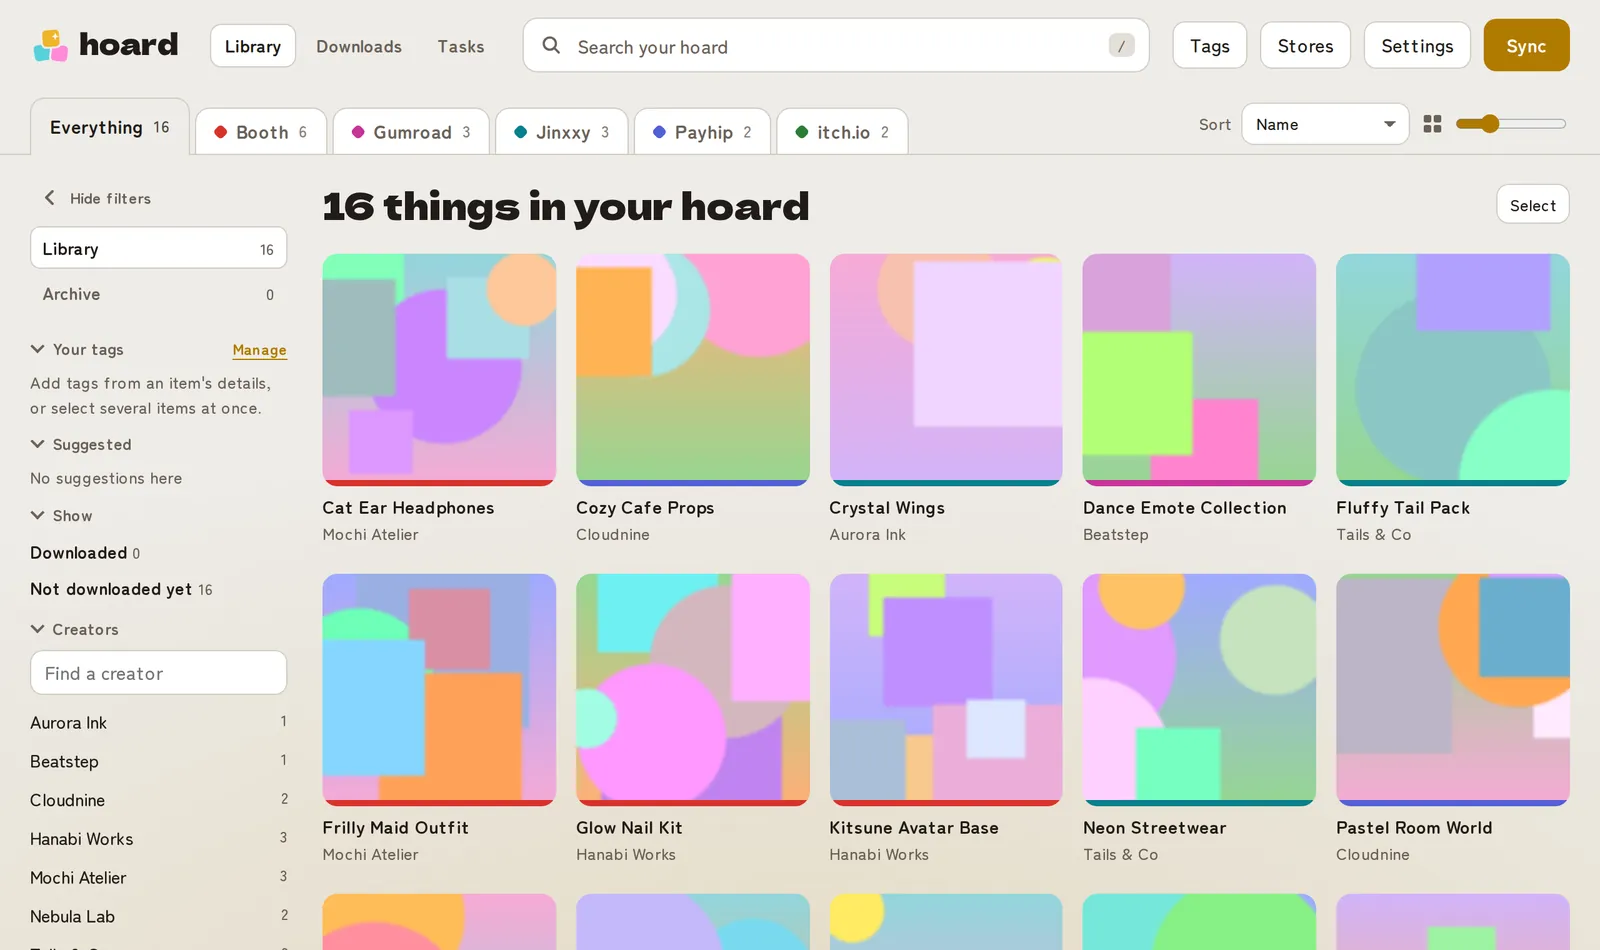
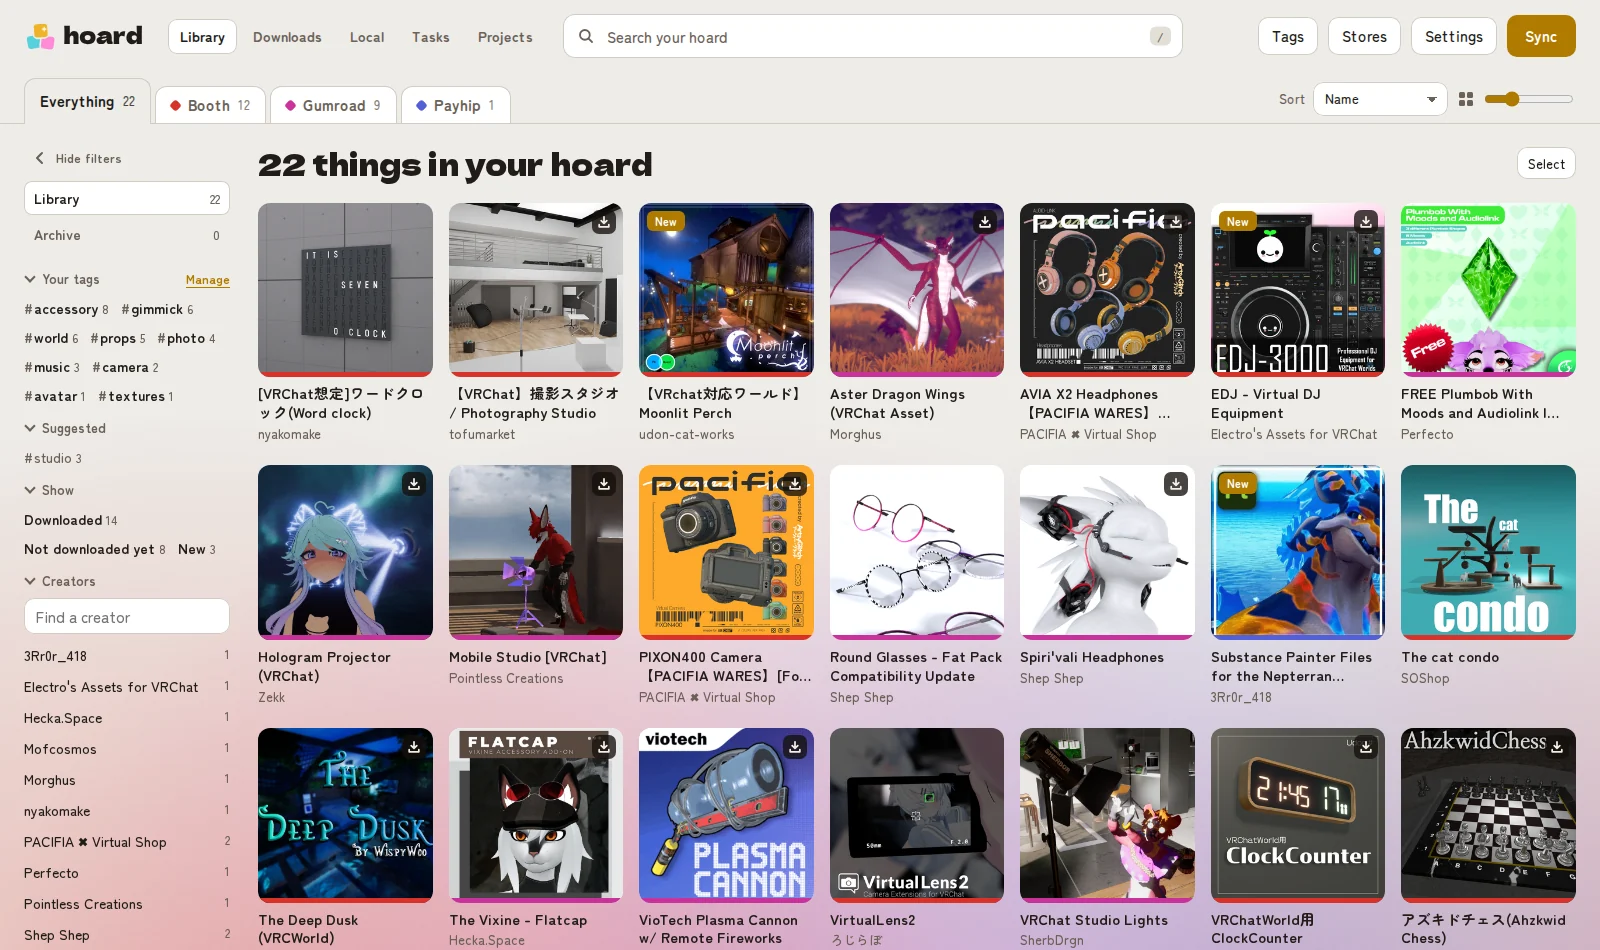
Screenshots of real products for the website and README
Five views (library, a download's details, Projects, adding your own
package, Stores) in dark and light, taken by scripts/screenshots.py from 22
products in the maintainer's own library, every picture (every frame of the
animated ones) checked safe for work. The website gets a 'A look around'
section and a new hero shot, the README a gallery, both crediting the
creators whose products are shown.

The screenshot script now gives the demo Local item files of its own (no
one else's picture), uses safe file names, and shows a usual computer's
paths and sign-in note. Downloads' tiles no longer cut into the heading:
the spacing rule missed the grid behind the hidden view bar.

Claude-Session: https://claude.ai/code/session_01A6S54cqYrVZay4VfWGRH2T

diff --git a/site/index.html b/site/index.html
@@ -46,7 +46,8 @@
         <img src="img/library-dark.webp" width="1600" height="950"
              alt="Hoard's library: products from five stores as picture tiles, with store tabs, search, tags and creators down the side.">
       </picture>
-      <p class="small caption">A library of sample products. Yours shows what you've bought.</p>
+      <p class="small caption">Real products from the maintainer's own library, shown with their creators' pictures.
+        Yours shows what you've bought.</p>
     </section>
 
     <section id="features" class="features" aria-labelledby="featuresTitle">
@@ -83,14 +84,49 @@
       </div>
     </section>
 
+    <section id="tour" class="tour" aria-labelledby="tourTitle">
+      <h2 id="tourTitle">A look around</h2>
+      <div class="gallery">
+        <figure>
+          <picture>
+            <source srcset="img/downloads-details-light.webp" media="(prefers-color-scheme: light)">
+            <img src="img/downloads-details-dark.webp" width="1600" height="950" loading="lazy" alt="Hoard's Downloads page, with a product's details open beside the tiles: its store, the Unity project that uses it, and buttons to open its folder or make an editable copy.">
+          </picture>
+          <figcaption><strong>Downloads.</strong> Every file you've downloaded, in tidy folders. Open one to see its files, which of your Unity projects use it, and make an editable copy.</figcaption>
+        </figure>
+        <figure>
+          <picture>
+            <source srcset="img/projects-light.webp" media="(prefers-color-scheme: light)">
+            <img src="img/projects-dark.webp" width="1600" height="950" loading="lazy" alt="Hoard's Projects panel: a Unity project's assets, each marked in the project or partly in it, and its credits list.">
+          </picture>
+          <figcaption><strong>Projects.</strong> Every Unity project you open Hoard's window in: the assets it uses, which have updates, and its credits list, ready to copy.</figcaption>
+        </figure>
+        <figure>
+          <picture>
+            <source srcset="img/local-add-light.webp" media="(prefers-color-scheme: light)">
+            <img src="img/local-add-dark.webp" width="1600" height="950" loading="lazy" alt="The Add to Local panel: a folder or file, its name, who made it and who it's for, and a choice to copy it into Hoard or list it where it is.">
+          </picture>
+          <figcaption><strong>Your own packages.</strong> Keep what you make beside what you buy. Copy it into Hoard, or list it where it already is.</figcaption>
+        </figure>
+        <figure>
+          <picture>
+            <source srcset="img/stores-light.webp" media="(prefers-color-scheme: light)">
+            <img src="img/stores-dark.webp" width="1600" height="950" loading="lazy" alt="Hoard's Stores panel: Booth, Gumroad, Jinxxy, Payhip and itch.io, each with sign in, refresh and download.">
+          </picture>
+          <figcaption><strong>Stores.</strong> Sign in to each store once, then refresh and download from one place.</figcaption>
+        </figure>
+      </div>
+      <p class="small">Products shown are by 3Rr0r_418, Electro's Assets for VRChat, Hecka.Space, Mofcosmos, Morghus, nyakomake, PACIFIA Virtual Shop, Perfecto, Pointless Creations, Shep Shep, SherbDrgn, SOShop, tofumarket, udon-cat-works, Violentpainter, wispywoo, Wmup, Zekk, ろじらぼ and 雪械重工, from the maintainer's own library. Thank you for making them.</p>
+    </section>
+
     <section id="unity" class="unity" aria-labelledby="unityTitle">
       <div>
         <h2 id="unityTitle">Hoard for Unity</h2>
         <p>Everything you've downloaded, inside the Unity editor: <strong>Window › Hoard</strong>. Search your
           library with pictures (animated ones play), see which assets are already in this project, and import one
           without downloading it again.</p>
-        <p><strong>Credits</strong> lists the creators of every asset your project uses, ready to paste into your
-          avatar's description.</p>
+        <p><strong>Create Credits List</strong> lists the creators of every asset fully in your project, ready to
+          paste into your avatar's description. Hoard's <strong>Projects</strong> shows each project's assets too.</p>
         <p class="small">Editor only: nothing from it goes into your uploads. Unity 2022.3, the version VRChat uses.</p>
       </div>
       <div class="vcc">

diff --git a/hoard/web/downloads.html b/hoard/web/downloads.html
@@ -178,7 +178,10 @@ main { padding: 22px 24px 64px 8px; min-width: 0; }
 .count .of { color: var(--dust); }
 .status { display: flex; align-items: center; gap: 8px; flex-wrap: wrap; margin: 12px 0 0; font-size: 14px; color: var(--dust); }
 .status:empty { display: none; }
-.status + .grid, .count + .status:empty + .grid { margin-top: 22px; }
+/* space between the heading (and any filters) and the tiles: the view bar (hidden in Downloads) sits between them,
+   so the grid is found as any later sibling of the heading row */
+.headrow ~ .grid { margin-top: 22px; }
+.viewbar:not([hidden]) + .grid { margin-top: 0; }
 .pill { display: inline-flex; align-items: center; gap: 6px; font-size: 13px; font-weight: 700; padding: 3px 5px 3px 11px; border-radius: 8px; background: var(--ledge); box-shadow: inset 0 0 0 1px var(--seam); border: 0; }
 .pill b { font-weight: 500; color: var(--dust); }
 .pill span[aria-hidden] { width: 18px; height: 18px; display: grid; place-items: center; border-radius: 5px; }

diff --git a/site/styles.css b/site/styles.css
@@ -87,6 +87,13 @@ section:first-child { border-top: 0; }
 .shot img { width: 100%; height: auto; border-radius: var(--radius); border: 1px solid var(--seam);
             box-shadow: 0 24px 60px rgb(0 0 0 / .35); }
 .caption { margin-top: 10px; }
+.gallery { display: grid; grid-template-columns: repeat(2, minmax(0, 1fr)); gap: 28px; margin: 24px 0; }
+.gallery figure { margin: 0; }
+.gallery img { width: 100%; height: auto; border-radius: var(--radius); border: 1px solid var(--seam);
+               box-shadow: 0 16px 40px rgb(0 0 0 / .3); }
+.gallery figcaption { margin-top: 10px; color: var(--dust); }
+.gallery figcaption strong { color: var(--bone); }
+@media (max-width: 760px) { .gallery { grid-template-columns: 1fr; } }
 
 .button {
   display: inline-flex; align-items: center; justify-content: center; gap: 8px; min-height: 46px;

diff --git a/scripts/screenshots.py b/scripts/screenshots.py
@@ -35,6 +35,7 @@ sys.path.insert(0, str(REPO))
 
 from hoard import config, downloader, jobs, library, projects, server  # noqa: E402
 from hoard.paths import THUMB_DIR  # noqa: E402
+from hoard.safety import safe_name  # noqa: E402
 from hoard.tags import TagStore, tag_key  # noqa: E402
 
 STORES = ("booth", "gumroad", "jinxxy", "payhip", "itch")
@@ -90,17 +91,18 @@ def build(items: list[dict]) -> tuple[Path, dict]:
         folder = store_dir / rec["folder"]
         folder.mkdir(parents=True, exist_ok=True)
         shutil.copy(p["picture"], folder / f"_thumbnail{p['picture'].suffix.lower()}")
-        for k, (fname, size) in enumerate(((f"{p['name']}.unitypackage", 48_000_000 + n * 3_100_000),
+        for k, (fname, size) in enumerate(((f"{safe_name(p['name'])}.unitypackage", 48_000_000 + n * 3_100_000),
                                            ("Textures.zip", 12_000_000 + n * 700_000))):
             with open(folder / fname, "wb") as fh:
                 fh.truncate(size)   # sparse: the size shows, nothing is written
             rec["files"][f"f{k}"] = {"path": fname, "size": size}
         man.save()
     cfg = {**config.load_config(), "root": str(root), "setup_done": True}
-    for p in items[:2]:   # your own: a texture set, copied into Local
-        own = WORK / "My Texture Set"
-        own.mkdir(exist_ok=True)
-        shutil.copy(p["picture"], own / f"preview-{p['id']}{p['picture'].suffix.lower()}")
+    own = WORK / "My Texture Set"   # your own: a texture set, copied into Local (no one else's picture)
+    (own / "Textures").mkdir(parents=True)
+    with open(own / "My Texture Set.unitypackage", "wb") as fh:
+        fh.truncate(18_500_000)
+    (own / "Textures" / "README.txt").write_text("Fabric and metal textures, 2048px.", "utf-8")
     from hoard import local
     local.add(cfg, root, str(WORK / "My Texture Set"), note="A commission", copy=True)
     downloader.build_catalog(cfg, root)
@@ -120,6 +122,10 @@ def build(items: list[dict]) -> tuple[Path, dict]:
 def shoot(items: list[dict], out: Path) -> None:
     from playwright.sync_api import sync_playwright
     root, made = build(items)
+    # what a usual computer says (this one may have no keyring, and its folders are made up for the pictures)
+    server.signin_protection = lambda cfg: "encrypted by your Windows account"
+    from pathlib import PureWindowsPath
+    server.signins_root = lambda cfg: PureWindowsPath(r"C:\Users\you\AppData\Local\Hoard\sign-ins")
     srv = server.AppServer(("127.0.0.1", 0), made["cfg"], lan=False)
     now = made["now"]
     with srv.lib.lock:   # in memory only
@@ -149,6 +155,9 @@ def shoot(items: list[dict], out: Path) -> None:
             page.wait_for_timeout(1200)   # pictures and the glow
 
             def snap(name, settle=500):
+                page.mouse.move(SIZE["width"] - 4, SIZE["height"] - 4)   # nothing hovered
+                page.evaluate("v => { const r = document.querySelector('#setRoot'); if (r) r.value = v; }",
+                              "C:\\Users\\you\\Documents\\Hoard")   # shown, never saved
                 page.wait_for_timeout(settle)
                 path = out / f"{name}-{theme}.png"
                 page.screenshot(path=str(path))

diff --git a/README.md b/README.md
@@ -26,6 +26,32 @@ files? Hoard answers those without opening four tabs.
   creators update their files. (Payhip is listed, not downloaded: see below.)
 - One app, one set of sign-ins, one set of tags, and it works offline.
 
+<p align="center">
+<picture>
+  <source srcset="site/img/library-light.webp" media="(prefers-color-scheme: light)">
+  <img src="site/img/library-dark.webp" width="49%" alt="Hoard's library: products from several stores as picture tiles, with store tabs, search, tags and creators.">
+</picture>
+<picture>
+  <source srcset="site/img/downloads-details-light.webp" media="(prefers-color-scheme: light)">
+  <img src="site/img/downloads-details-dark.webp" width="49%" alt="Hoard's Downloads page, with a product's details open beside the tiles: its store, the Unity project that uses it, and buttons to open its folder or make an editable copy.">
+</picture>
+<picture>
+  <source srcset="site/img/projects-light.webp" media="(prefers-color-scheme: light)">
+  <img src="site/img/projects-dark.webp" width="49%" alt="Hoard's Projects panel: a Unity project's assets, each marked in the project or partly in it, and its credits list.">
+</picture>
+<picture>
+  <source srcset="site/img/local-add-light.webp" media="(prefers-color-scheme: light)">
+  <img src="site/img/local-add-dark.webp" width="49%" alt="The Add to Local panel: a folder or file, its name, who made it and who it's for, and a choice to copy it into Hoard or list it where it is.">
+</picture>
+<picture>
+  <source srcset="site/img/stores-light.webp" media="(prefers-color-scheme: light)">
+  <img src="site/img/stores-dark.webp" width="49%" alt="Hoard's Stores panel: Booth, Gumroad, Jinxxy, Payhip and itch.io, each with sign in, refresh and download.">
+</picture>
+</p>
+
+<sub>Library, Downloads, Projects, your own packages and Stores, with real products from the maintainer's own library
+by 3Rr0r_418, Electro's Assets for VRChat, Hecka.Space, Mofcosmos, Morghus, nyakomake, PACIFIA Virtual Shop, Perfecto, Pointless Creations, Shep Shep, SherbDrgn, SOShop, tofumarket, udon-cat-works, Violentpainter, wispywoo, Wmup, Zekk, ろじらぼ and 雪械重工. Thank you for making them.</sub>
+
 Guides for everything, from installing to fixing a problem, are in the
 **[wiki](https://github.com/Soloflighter1010/Hoard-Asset-Manager/wiki)**.
 

diff --git a/docs/CHANGELOG-3.0.0.md b/docs/CHANGELOG-3.0.0.md
@@ -200,6 +200,7 @@ Coming from 2.8.4, everything carries over by itself: your library, tags, sign-i
 
 ### Fixed
 
+- Downloads' tiles no longer crowd the heading above them, which they cut into when no filter was chosen.
 - Sign-ins kept on another drive (`advanced_signin_location`) that wasn't plugged in when Hoard started made every
   store's list vanish, as if you'd signed out. Hoard now leaves the lists alone when that whole folder is missing.
 - "Hoard is busy" just after starting: checking the catalog's seal no longer holds up the first thing you choose.
